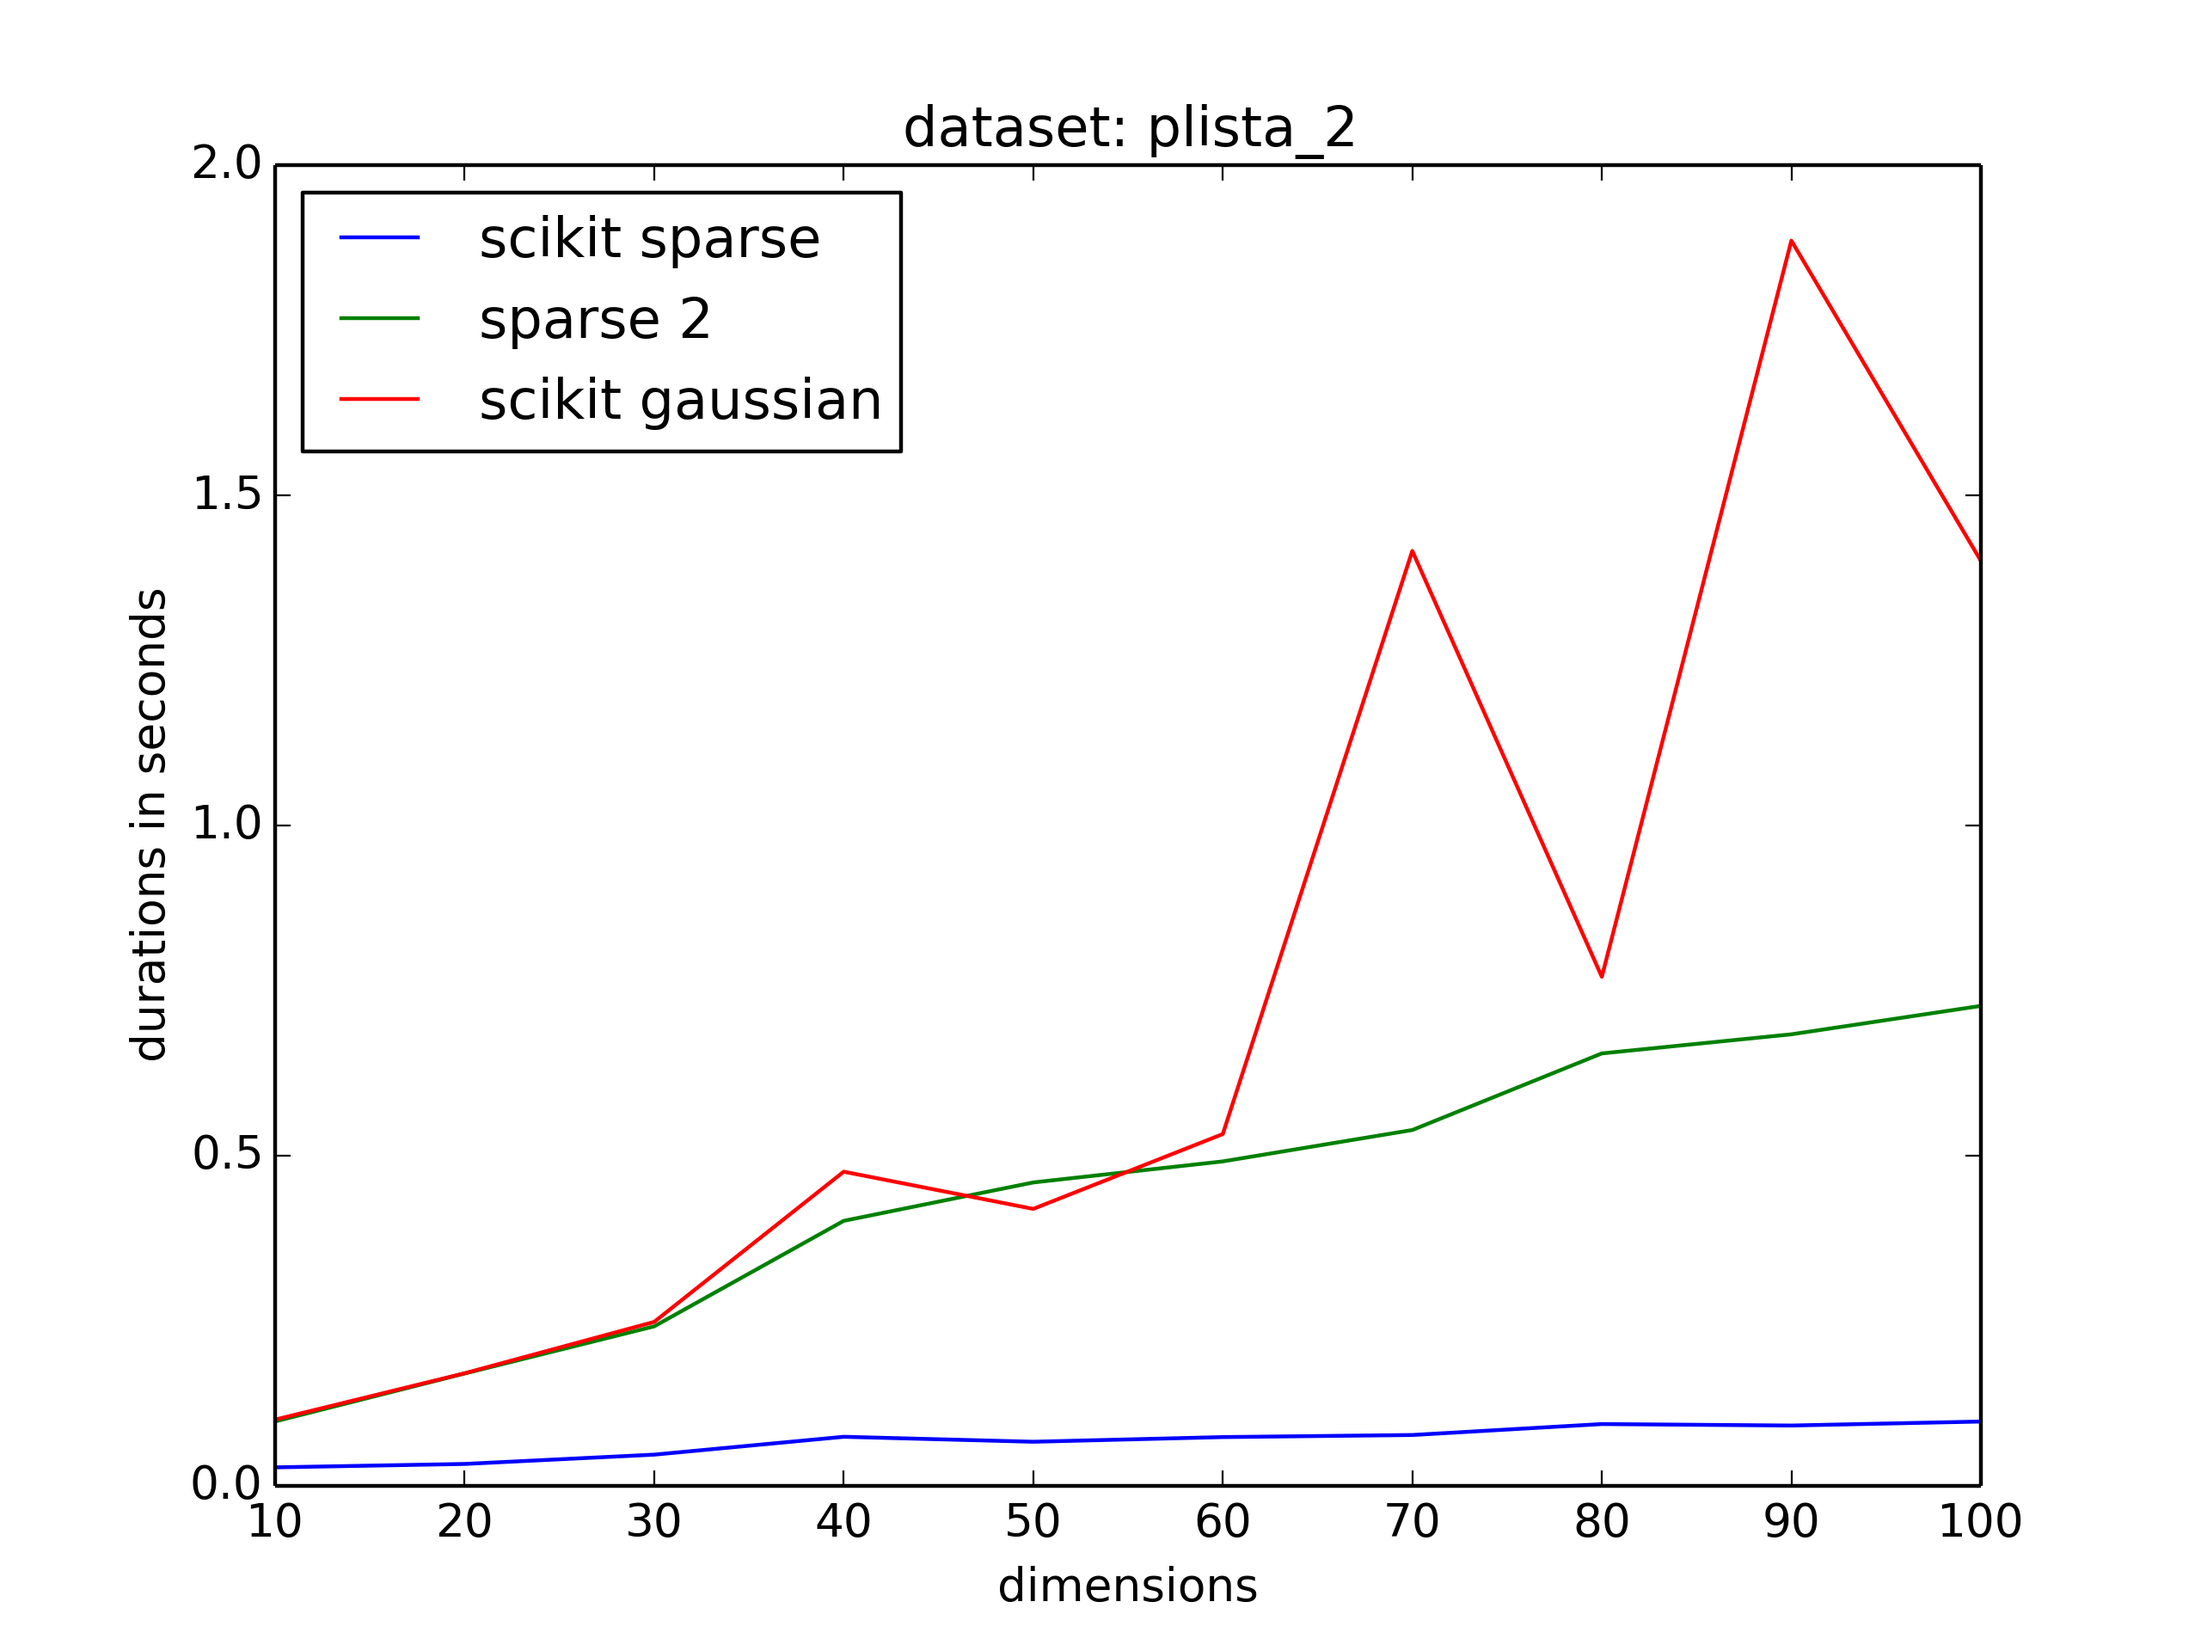
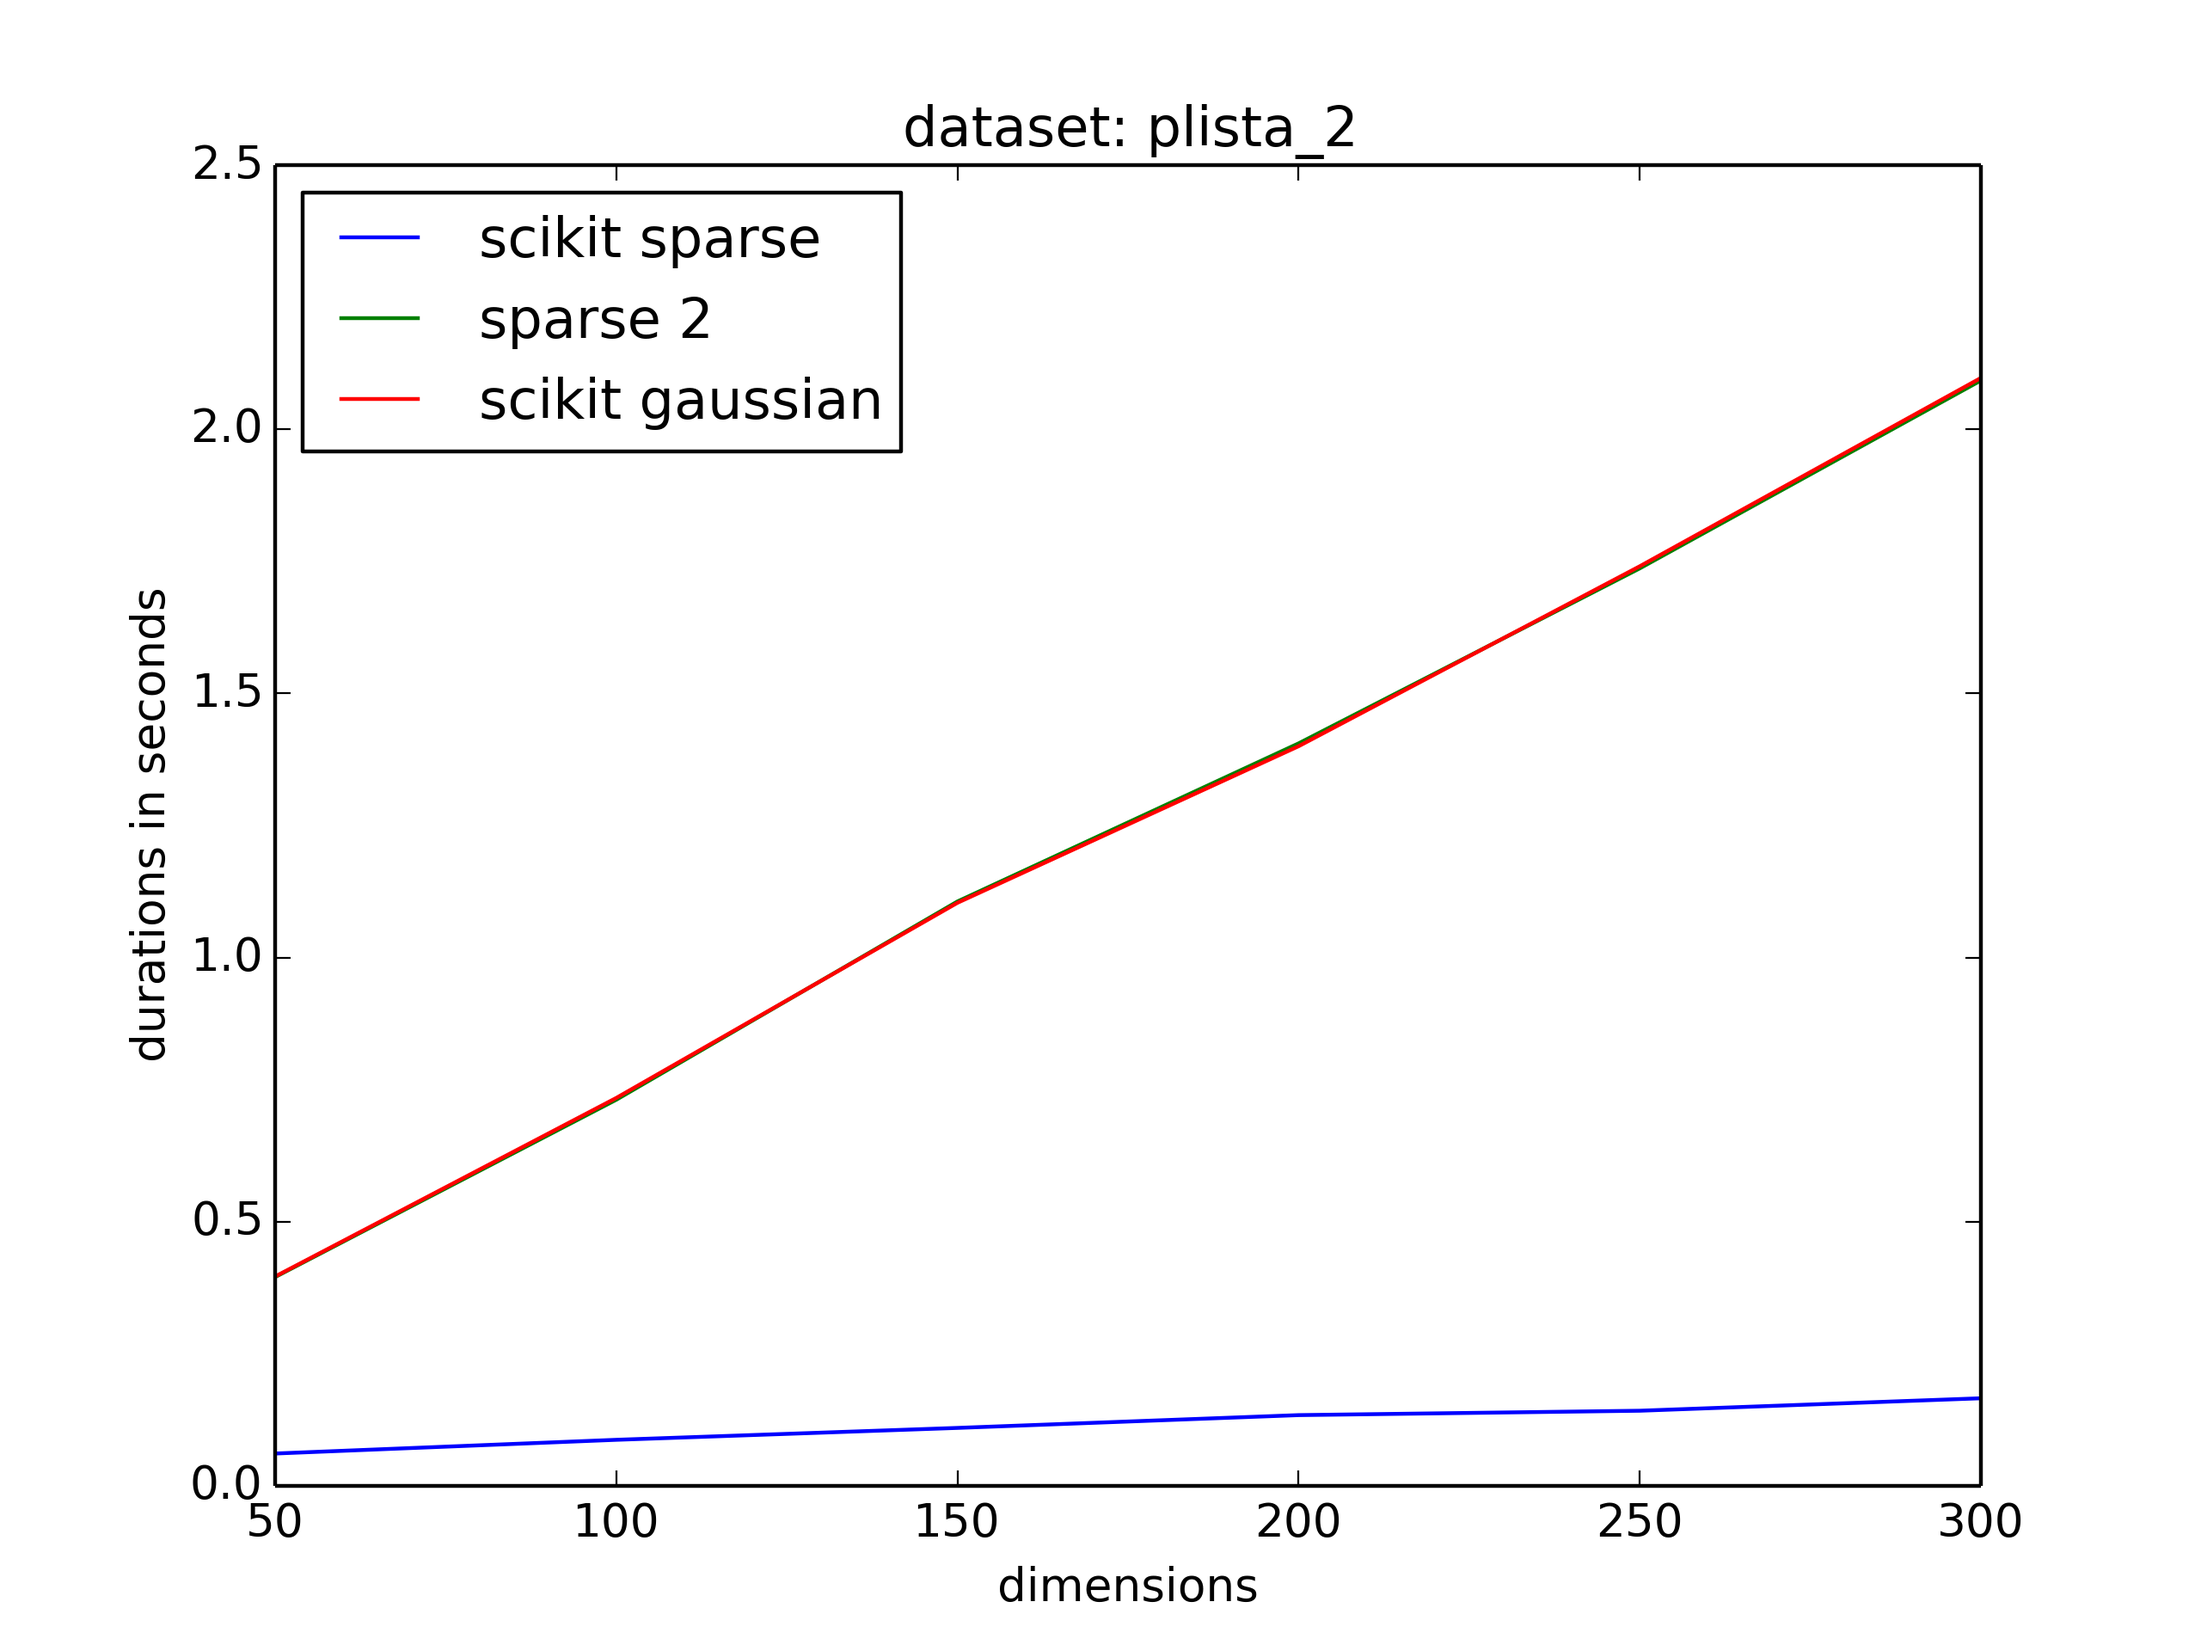
more tests

diff --git a/random-projection/quality_durations.py b/random-projection/quality_durations.py
@@ -4,7 +4,7 @@ import distributions
 import scikit_rp
 import data_factory as df
 import time
-import matplotlib.pyplot as plt
+
 
 datasets = {}
 datasets["cancer_1"] = df.loadFirstCancerDataset
@@ -15,6 +15,7 @@ datasets["plista_3"] = df.loadThridPlistaDataset
 datasets["plista_4"] = df.loadFourthPlistaDataset
 i = 0
 for dataset in datasets.iterkeys():
+    import matplotlib.pyplot as plt
 
     plt.figure(i)
     i = i+1
@@ -22,13 +23,12 @@ for dataset in datasets.iterkeys():
     plt.ylabel('durations in seconds')
     plt.title('dataset: %s' % dataset)
 
-
     data,_,_,_ = datasets[dataset]()
     data = csr_matrix(data)
 
     orig_columns = np.shape(data)[1]
 
-    dimensions = np.arange(10, 110, 10)
+    dimensions = np.arange(50, 350, 50)
     durations = {}
     durations["sparse 2"] = []
     durations["scikit gaussian"] = []
@@ -62,3 +62,4 @@ for dataset in datasets.iterkeys():
     plt.legend(loc="best")
 
     plt.savefig("output/durations/dimensions_vs_durations_%s.png" % dataset, dpi=320)
+    plt.close()

diff --git a/random-projection/quality-distances.py b/random-projection/quality-distances.py
@@ -142,4 +142,4 @@ experiment8["id"] = 8
 experiment8["data"] = getThirdPlistaData
 
 
-runExperiment(experiment5)
+runExperiment(experiment8)
